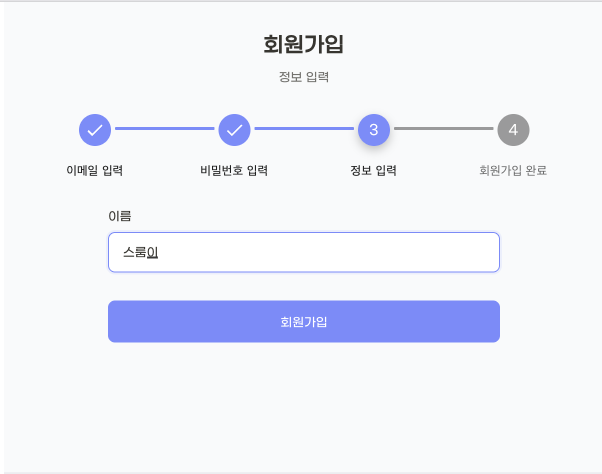
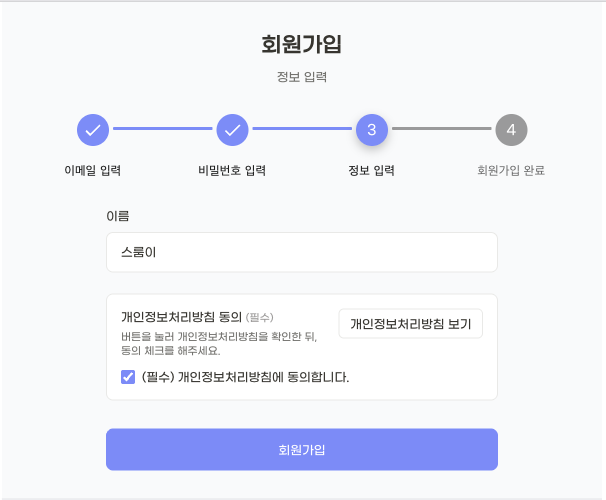
Docs: 회원가입 단계 설명 개편 및 화면 미리보기 이미지 교체

diff --git a/src/app/service-manual/page.jsx b/src/app/service-manual/page.jsx
@@ -90,7 +90,7 @@ export default function ServiceManualPage() {
             <ImgCard
               src="/manual/signup-step3.png"
               alt="회원가입 Step 3 - 비밀번호 설정"
-              caption="③ 닉네임/비밀번호 설정"
+              caption="③ 닉네임 설정/개인정보 처리방침 동의"
             />
             <ImgCard
               src="/manual/signup-complete.png"
@@ -101,18 +101,22 @@ export default function ServiceManualPage() {
 
           <SubTitle>2) 따라하기</SubTitle>
           <OL>
-            <Step title="학교 이메일 입력">
-              <b>@mju.ac.kr</b> 주소를 입력하고 <b>인증번호 보내기</b>를
-              누르세요.
+            <Step title="학교 이메일 인증">
+              <b>@mju.ac.kr</b> 주소를 입력한 뒤 <b>인증번호 전송</b> 버튼을
+              눌러 이메일로 6자리 인증번호를 받으세요. 받은 인증번호를 입력하고{' '}
+              <b>인증번호 확인</b> 버튼을 눌러 인증을 완료합니다.
             </Step>
-            <Step title="메일함 확인">
-              받은메일함 또는 <b>스팸함</b>에서 인증번호(6자리)를 확인하세요.
+            <Step title="비밀번호 설정">
+              비밀번호와 비밀번호 확인란에 동일한 값을 입력하세요. 보안을 위해
+              영문, 숫자, 특수문자를 조합한 안전한 비밀번호를 사용하세요.
             </Step>
-            <Step title="인증번호 입력">
-              화면에 인증번호를 입력 후 <b>확인</b>을 누릅니다.
+            <Step title="닉네임 설정 및 개인정보 처리방침 동의">
+              원하는 닉네임을 입력하고, <b>개인정보처리방침</b>을 확인·동의한 뒤{' '}
+              <b>회원가입</b> 버튼을 누릅니다.
             </Step>
-            <Step title="프로필/비밀번호 설정">
-              닉네임과 비밀번호를 규칙에 맞게 설정하면 가입이 완료됩니다.
+            <Step title="가입 완료 확인">
+              ‘회원가입 완료’ 화면이 뜨면 <b>확인</b> 버튼을 눌러 로그인
+              페이지로 이동합니다.
             </Step>
           </OL>
 
@@ -254,7 +258,7 @@ export default function ServiceManualPage() {
           <SubTitle>2) 따라하기</SubTitle>
           <OL>
             <Step title="날짜 선택">
-              상단에서 <b>오늘/내일</b> 중 선택합니다.
+              상단에서 <b>오늘 예약하기/내일 예약하기</b> 중 선택합니다.
             </Step>
             <Step title="시간대 확인">
               홈 화면의 <b>예약 상태별 색상</b>을 확인하고 원하는 시간대를
